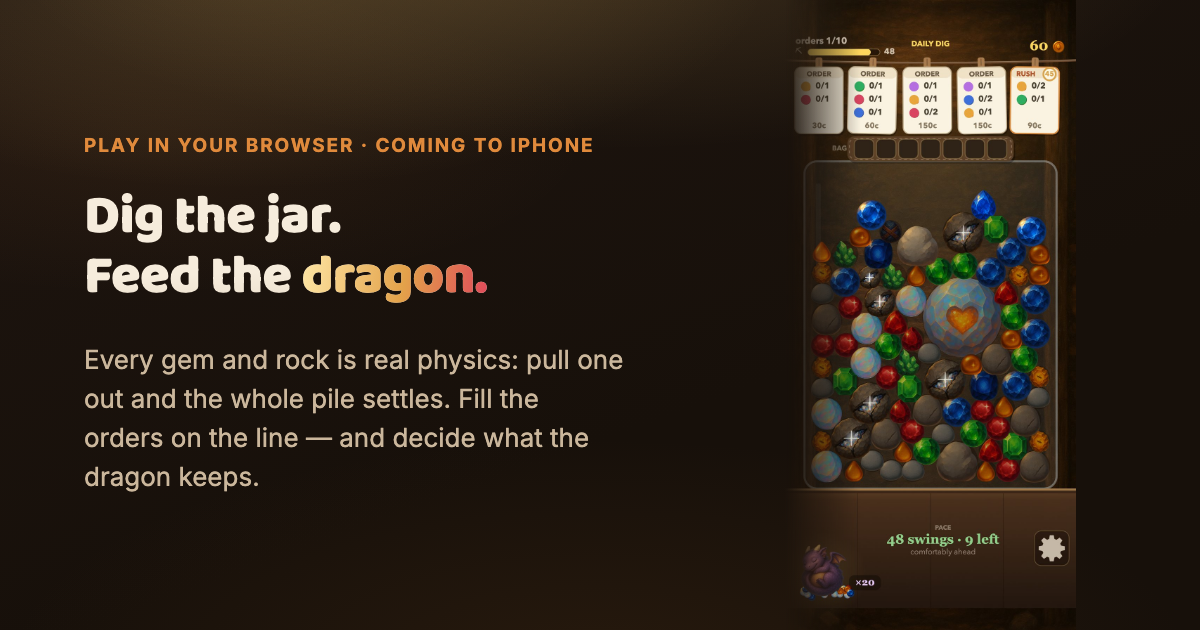
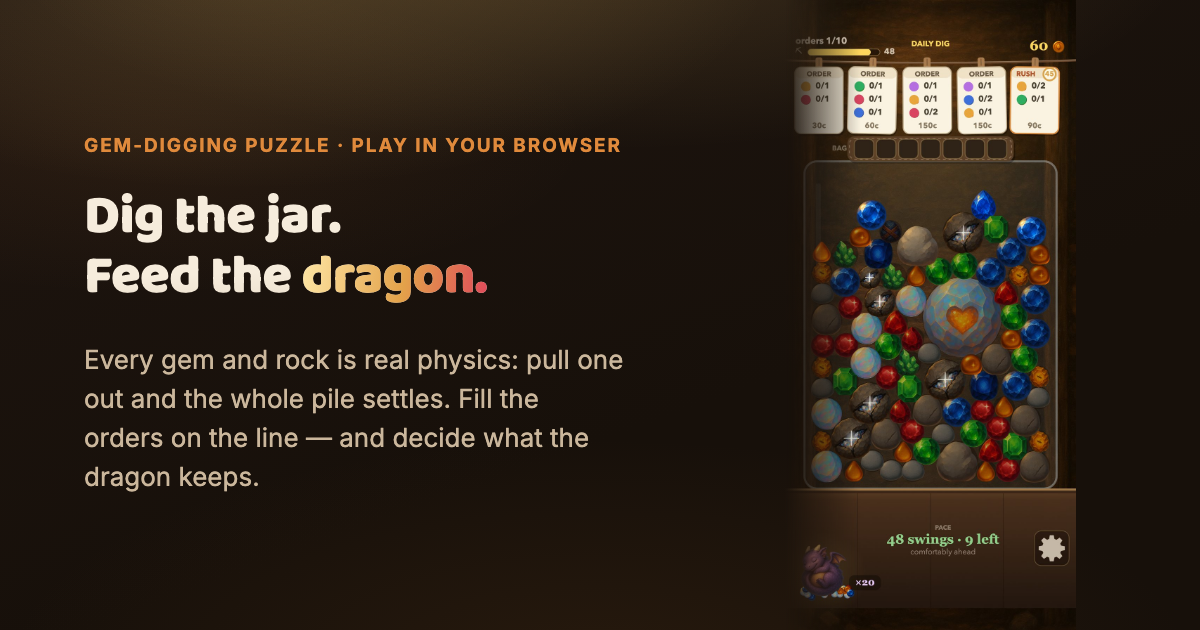
Gemburrow page claims only the browser game, not an iPhone release
ASC has gemburrow 1.0 at PREPARE_FOR_SUBMISSION, so "for iPhone" and
"Gemburrow is an iPhone game" were not true today. index: title, meta/og/
twitter descriptions, JSON-LD (VideoGame, operatingSystem Web, matching the
studio page), hero eyebrow, pricing block, FAQ (visible + JSON-LD) and the
closing strip now claim the browser game at /gemburrow/play/. The iPhone app
is still described, in release-neutral words: its one purchase and its own
save. The new browser line is checked against play/game.js: careerCap()
returns CAREER_MAX (40) when no store is available.

og card: kicker "Gem-digging puzzle · play in your browser" (was "Play in
your browser · coming to iPhone"), re-rendered via build_app_og.py (--check
ok), og-image ?v=20260913a on all four Gemburrow pages, card alt text drops
"for iPhone". sitemap lastmod 2026-09-13.

Changed region(s): [[0.0617, 0.2111, 0.5242, 0.2413]]

diff --git a/gemburrow/index.html b/gemburrow/index.html
@@ -6,25 +6,25 @@
   
   <meta name="color-scheme" content="dark">
   <meta name="theme-color" content="#17100A">
-  <title>Gemburrow — cozy gem-digging puzzle for iPhone</title>
-  <meta name="description" content="The gem-jar game those ads promised, built for real. Dig gems out of a physics-packed jar, fill the orders on the line, and decide what your dragon keeps. For iPhone, and playable in your browser.">
+  <title>Gemburrow — cozy gem-digging puzzle</title>
+  <meta name="description" content="The gem-jar game those ads promised, built for real. Dig gems out of a physics-packed jar, fill the orders on the line, and decide what your dragon keeps. Play it in your browser.">
   <meta name="robots" content="index, follow">
   <link rel="canonical" href="https://hypersage.ai/gemburrow/">
 
   <meta property="og:type" content="website">
   <meta property="og:title" content="Gemburrow — Dig the jar. Fill the orders. Feed the dragon.">
-  <meta property="og:description" content="A cozy gem-digging puzzle for iPhone. Every gem and rock is real physics: pull one out and the whole pile settles.">
+  <meta property="og:description" content="A cozy gem-digging puzzle you can play in your browser. Every gem and rock is real physics: pull one out and the whole pile settles.">
   <meta property="og:url" content="https://hypersage.ai/gemburrow/">
   <meta property="og:site_name" content="Gemburrow">
-  <meta property="og:image" content="https://hypersage.ai/gemburrow/og-image.png?v=20260901a">
+  <meta property="og:image" content="https://hypersage.ai/gemburrow/og-image.png?v=20260913a">
   <meta property="og:image:width" content="1200">
   <meta property="og:image:height" content="630">
   <meta property="og:image:alt" content="Gemburrow — a cozy gem-digging puzzle set in a mole's underground gem shop">
   <meta name="twitter:card" content="summary_large_image">
   <meta name="twitter:title" content="Gemburrow — Dig the jar. Fill the orders. Feed the dragon.">
-  <meta name="twitter:description" content="A cozy gem-digging puzzle for iPhone. Pull one gem and the whole pile settles.">
-  <meta name="twitter:image" content="https://hypersage.ai/gemburrow/og-image.png?v=20260901a">
-  <meta name="twitter:image:alt" content="Gemburrow — a cozy gem-digging puzzle for iPhone">
+  <meta name="twitter:description" content="A cozy gem-digging puzzle you can play in your browser. Pull one gem and the whole pile settles.">
+  <meta name="twitter:image" content="https://hypersage.ai/gemburrow/og-image.png?v=20260913a">
+  <meta name="twitter:image:alt" content="Gemburrow — a cozy gem-digging puzzle set in a mole's underground gem shop">
 
   <link rel="icon" type="image/png" href="app-icon-512.png?v=20260821a">
   <link rel="apple-touch-icon" href="app-icon-512.png?v=20260821a">
@@ -473,11 +473,11 @@
   <script type="application/ld+json">
   {
     "@context": "https://schema.org",
-    "@type": "MobileApplication",
+    "@type": "VideoGame",
     "name": "Gemburrow",
-    "applicationCategory": "GameApplication",
-    "operatingSystem": "iOS",
-    "description": "A cozy gem-digging puzzle for iPhone. Dig gems out of a physics-packed jar, assemble full sets in your satchel to fill the orders hanging on the line, and decide which rare gems your dragon keeps forever.",
+    "applicationCategory": "Game",
+    "operatingSystem": "Web",
+    "description": "A cozy gem-digging puzzle you can play in your browser. Dig gems out of a physics-packed jar, assemble full sets in your satchel to fill the orders hanging on the line, and decide which rare gems your dragon keeps forever.",
     "url": "https://hypersage.ai/gemburrow/",
     "author": {
       "@type": "Organization",
@@ -496,7 +496,7 @@
         "name": "Where can I play Gemburrow?",
         "acceptedAnswer": {
           "@type": "Answer",
-          "text": "Gemburrow is an iPhone game, and it also runs in your browser at hypersage.ai/gemburrow/play/, which you can add to your home screen. The browser version saves your progress in that browser; the iPhone app saves it on your phone, and the two don't share a save."
+          "text": "In your browser, at hypersage.ai/gemburrow/play/, which you can add to your home screen. The browser version saves your progress in that browser; the iPhone app saves it on your phone, and the two don't share a save."
         }
       },
       {
@@ -596,7 +596,7 @@
   <header class="hero">
     <div class="container">
       <div>
-        <span class="eyebrow">Cozy gem-digging puzzle &middot; iPhone &amp; browser</span>
+        <span class="eyebrow">Cozy gem-digging puzzle &middot; play in your browser</span>
         <h1>Dig the jar.<br>Fill the orders.<br><span class="hl">Feed the dragon.</span></h1>
         <p class="lede">
           You've seen the ad: a jar packed with gems and rocks, and someone plucking
@@ -865,7 +865,7 @@
         game, nothing you can buy changes a dig, and nothing stops you playing.
       </p>
       <div class="honest">
-        <div><span class="tick" aria-hidden="true">✓</span><div><b>One optional purchase</b><p>The Full Burrow unlocks career levels 11–40 and the 14-day dig archive in the iPhone app. That is the entire catalogue — no subscription, no coin pack, no starter bundle. Free digs, the Daily Dig and career levels 1–10 stay free forever.</p></div></div>
+        <div><span class="tick" aria-hidden="true">✓</span><div><b>One optional purchase</b><p>The browser game has no store, and its whole 40-level career is open. In the iPhone app, The Full Burrow is the one optional purchase: it unlocks career levels 11–40 and the 14-day dig archive. That is the entire catalogue — no subscription, no coin pack, no starter bundle. Free digs, the Daily Dig and career levels 1–10 stay free forever.</p></div></div>
         <div><span class="tick" aria-hidden="true">✓</span><div><b>No ads</b><p>No advertising SDK is linked into the build, so there is nothing to watch, skip, or accidentally tap.</p></div></div>
         <div><span class="tick" aria-hidden="true">✓</span><div><b>No energy meter</b><p>Play as long as you like. Nothing recharges on a clock, and nothing asks you to come back in four hours. A Rush order does run its own 45-second countdown — that is the puzzle, not a wait.</p></div></div>
         <div><span class="tick" aria-hidden="true">✓</span><div><b>No account</b><p>No sign-in, no email, no profile. The leaderboard names you MOLE-something and gets on with it.</p></div></div>
@@ -882,7 +882,7 @@
       <div class="faq-list">
         <details class="faq">
           <summary>Where can I play Gemburrow?</summary>
-          <p>Gemburrow is an iPhone game, and it also runs in your browser at <a href="play/">hypersage.ai/gemburrow/play/</a>, which you can add to your home screen. The browser version saves your progress in that browser; the iPhone app saves it on your phone, and the two don't share a save.</p>
+          <p>In your browser, at <a href="play/">hypersage.ai/gemburrow/play/</a>, which you can add to your home screen. The browser version saves your progress in that browser; the iPhone app saves it on your phone, and the two don't share a save.</p>
         </details>
         <details class="faq">
           <summary>Is this the game from those gem-jar ads?</summary>
@@ -931,7 +931,7 @@
 
   <section class="cta-strip" id="notify">
     <h2>The jar is full. Grandpa left you the shop.</h2>
-    <p>Gemburrow is an iPhone game, and you can dig in your browser right now. Questions, or a complaint about the dragon's attitude? We answer email.</p>
+    <p>You can dig in your browser right now. Questions, or a complaint about the dragon's attitude? We answer email.</p>
     <a href="mailto:support@hypersage.ai?subject=Gemburrow" class="btn-primary">
       <span>Email the studio</span>
       <svg width="16" height="16" viewBox="0 0 24 24" fill="none" stroke="currentColor" stroke-width="2" stroke-linecap="round" stroke-linejoin="round" aria-hidden="true"><path d="M5 12h14M13 6l6 6-6 6"/></svg>

diff --git a/gemburrow/privacy.html b/gemburrow/privacy.html
@@ -14,15 +14,15 @@
   <meta property="og:description" content="What Gemburrow stores on your phone, the one thing that leaves it, and what it never collects.">
   <meta property="og:url" content="https://hypersage.ai/gemburrow/privacy.html">
   <meta property="og:site_name" content="Gemburrow">
-  <meta property="og:image" content="https://hypersage.ai/gemburrow/og-image.png?v=20260821b">
+  <meta property="og:image" content="https://hypersage.ai/gemburrow/og-image.png?v=20260913a">
   <meta property="og:image:width" content="1200">
   <meta property="og:image:height" content="630">
-  <meta property="og:image:alt" content="Gemburrow — a cozy gem-digging puzzle for iPhone">
+  <meta property="og:image:alt" content="Gemburrow — a cozy gem-digging puzzle set in a mole's underground gem shop">
   <meta name="twitter:card" content="summary_large_image">
   <meta name="twitter:title" content="Gemburrow — Privacy Policy">
   <meta name="twitter:description" content="What Gemburrow stores on your phone, and the one thing that leaves it.">
-  <meta name="twitter:image" content="https://hypersage.ai/gemburrow/og-image.png?v=20260821b">
-  <meta name="twitter:image:alt" content="Gemburrow — a cozy gem-digging puzzle for iPhone">
+  <meta name="twitter:image" content="https://hypersage.ai/gemburrow/og-image.png?v=20260913a">
+  <meta name="twitter:image:alt" content="Gemburrow — a cozy gem-digging puzzle set in a mole's underground gem shop">
   <link rel="icon" type="image/png" href="app-icon-512.png?v=20260821a">
   <link rel="apple-touch-icon" href="app-icon-512.png?v=20260821a">
   <link rel="preconnect" href="https://fonts.googleapis.com">

diff --git a/gemburrow/support.html b/gemburrow/support.html
@@ -14,15 +14,15 @@
   <meta property="og:description" content="Help with Gemburrow: lost progress, a stuck level, sound, the leaderboard, and how to reach a human.">
   <meta property="og:url" content="https://hypersage.ai/gemburrow/support.html">
   <meta property="og:site_name" content="Gemburrow">
-  <meta property="og:image" content="https://hypersage.ai/gemburrow/og-image.png?v=20260821b">
+  <meta property="og:image" content="https://hypersage.ai/gemburrow/og-image.png?v=20260913a">
   <meta property="og:image:width" content="1200">
   <meta property="og:image:height" content="630">
-  <meta property="og:image:alt" content="Gemburrow — a cozy gem-digging puzzle for iPhone">
+  <meta property="og:image:alt" content="Gemburrow — a cozy gem-digging puzzle set in a mole's underground gem shop">
   <meta name="twitter:card" content="summary_large_image">
   <meta name="twitter:title" content="Gemburrow — Support">
   <meta name="twitter:description" content="Help with Gemburrow, and how to reach a human.">
-  <meta name="twitter:image" content="https://hypersage.ai/gemburrow/og-image.png?v=20260821b">
-  <meta name="twitter:image:alt" content="Gemburrow — a cozy gem-digging puzzle for iPhone">
+  <meta name="twitter:image" content="https://hypersage.ai/gemburrow/og-image.png?v=20260913a">
+  <meta name="twitter:image:alt" content="Gemburrow — a cozy gem-digging puzzle set in a mole's underground gem shop">
   <link rel="icon" type="image/png" href="app-icon-512.png?v=20260821a">
   <link rel="apple-touch-icon" href="app-icon-512.png?v=20260821a">
   <link rel="preconnect" href="https://fonts.googleapis.com">

diff --git a/gemburrow/terms.html b/gemburrow/terms.html
@@ -14,15 +14,15 @@
   <meta property="og:description" content="The terms for using Gemburrow: a free-to-play game, licensed not sold, with one optional unlock and no accounts.">
   <meta property="og:url" content="https://hypersage.ai/gemburrow/terms.html">
   <meta property="og:site_name" content="Gemburrow">
-  <meta property="og:image" content="https://hypersage.ai/gemburrow/og-image.png?v=20260821b">
+  <meta property="og:image" content="https://hypersage.ai/gemburrow/og-image.png?v=20260913a">
   <meta property="og:image:width" content="1200">
   <meta property="og:image:height" content="630">
-  <meta property="og:image:alt" content="Gemburrow — a cozy gem-digging puzzle for iPhone">
+  <meta property="og:image:alt" content="Gemburrow — a cozy gem-digging puzzle set in a mole's underground gem shop">
   <meta name="twitter:card" content="summary_large_image">
   <meta name="twitter:title" content="Gemburrow — Terms of Use">
   <meta name="twitter:description" content="The terms for using Gemburrow.">
-  <meta name="twitter:image" content="https://hypersage.ai/gemburrow/og-image.png?v=20260821b">
-  <meta name="twitter:image:alt" content="Gemburrow — a cozy gem-digging puzzle for iPhone">
+  <meta name="twitter:image" content="https://hypersage.ai/gemburrow/og-image.png?v=20260913a">
+  <meta name="twitter:image:alt" content="Gemburrow — a cozy gem-digging puzzle set in a mole's underground gem shop">
   <link rel="icon" type="image/png" href="app-icon-512.png?v=20260821a">
   <link rel="apple-touch-icon" href="app-icon-512.png?v=20260821a">
   <link rel="preconnect" href="https://fonts.googleapis.com">

diff --git a/tools/build_app_og.py b/tools/build_app_og.py
@@ -426,11 +426,11 @@ CARDS = {
          -webkit-mask-image: linear-gradient(90deg, transparent 0%, #000 26%, #000 100%);
          mask-image: linear-gradient(90deg, transparent 0%, #000 26%, #000 100%); }
 """,
-        # Playable at /gemburrow/play/ (200) since before 2026-08-21; the product page
-        # itself leads with "Play free in your browser". A card that says only
-        # "Coming to iPhone" hides the thing a sharer can do right now. 38 chars,
-        # shorter than the 41 it replaces, so the nowrap above still clears.
-        "kicker": "Play in your browser \u00b7 coming to iPhone",
+        # The page eyebrow, shortened. The iPhone app is not on sale (ASC 1.0
+        # PREPARE_FOR_SUBMISSION on 2026-09-13), so the card claims only the browser
+        # game, playable at /gemburrow/play/ (200) since before 2026-08-21. 41 chars,
+        # the length measured against the nowrap above.
+        "kicker": "Gem-digging puzzle \u00b7 play in your browser",
         "h1": 'Dig the jar.<br>Feed the <span class="grad">dragon.</span>',
         "sub": "Every gem and rock is real physics: pull one out and the whole pile settles. Fill the orders on the line \u2014 and decide what the dragon keeps.",
     },
